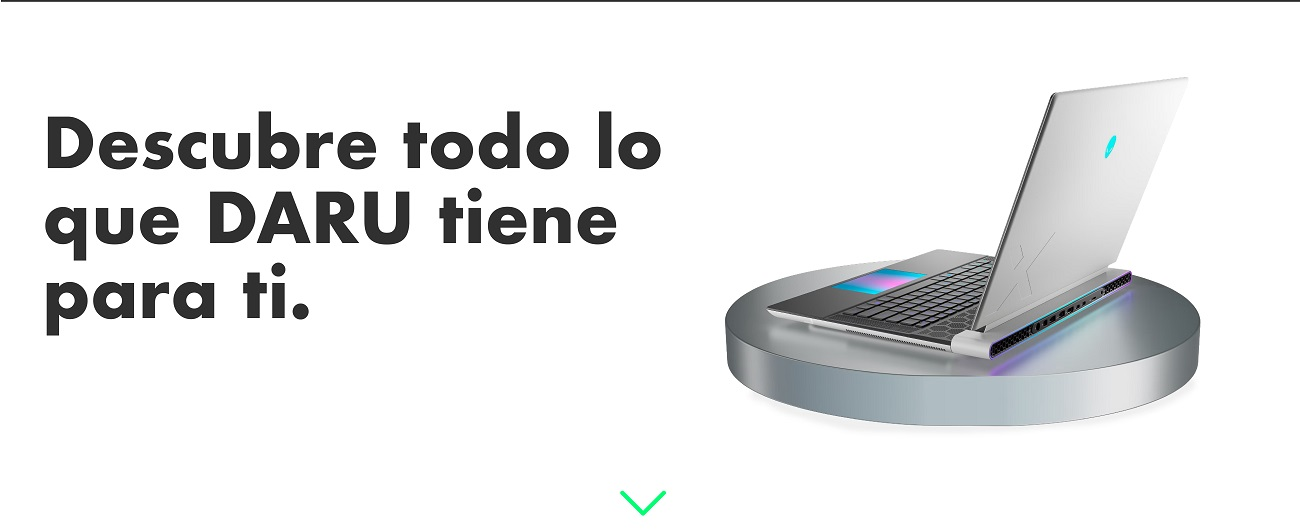
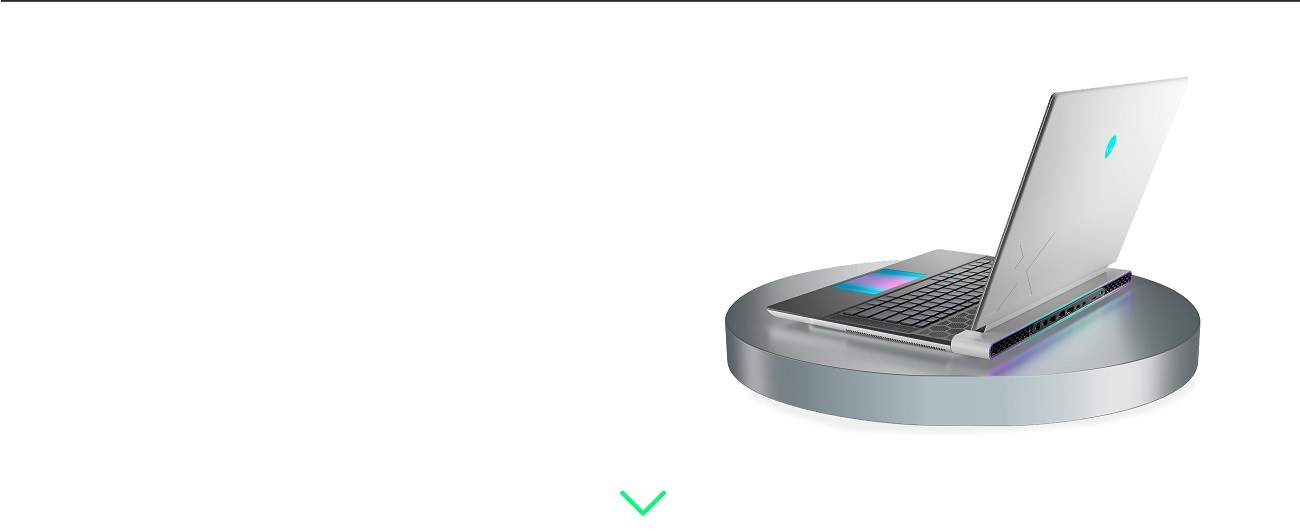
Shop: Home: Ajuste principal.

Changed region(s): [[0.0308, 0.2105, 0.5231, 0.3308], [0.0308, 0.3609, 0.4923, 0.4812], [0.0308, 0.4812, 0.2462, 0.6316]]

diff --git a/src/app/@pages/home/index/index.component.html b/src/app/@pages/home/index/index.component.html
@@ -1,18 +1,14 @@
 <main class="main home-page skeleton-body">
   <!-- Seccion 1 Banner Principal -->
-  <section class="intro-section mt-20">
+  <section class="intro-section">
     <div class="banner">
       <figure>
         <img src="assets/images/home/banners/01.jpg" width="1903" height="780" alt="Image Desc" />
       </figure>
       <div class="banner-content">
-        <!-- <h3 class="banner-subtitle text-white" contentAnim aniName="fadeInUpShorter">Producto...</h3>
-        <h2 class="banner-title text-white" contentAnim aniName="fadeInUpShorter">Informacion <br> del Producto</h2>
-        <p class="banner-text text-white" contentAnim aniName="fadeInUpShorter">
-          Info <br>
-          Info <br>
-          Info.            (click)="addCart($event)"
-        </p> -->
+        <h2 class="banner-title text-white" contentAnim aniName="fadeInUpShorter">Descubre todo lo que <br> DARU</h2>
+        <h3 class="banner-subtitle text-white" contentAnim aniName="fadeInUpShorter">tiene para ti.</h3>
+        <p>&nbsp;<br></p>
         <div class="banner-action" contentAnim aniName="fadeInUpShorter">
           <a routerLink="/register" class="btn btn-cart btn-primary btn-round btn-cart-home">Registrate en DARU TEAM</a>
         </div>

diff --git a/src/app/@pages/home/index/index.component.scss b/src/app/@pages/home/index/index.component.scss
@@ -12,3 +12,21 @@
   background-color: #f4f4f4;
   margin: 2rem;
 }
+
+.home-page .banner .banner-title {
+  font-size: 6rem;
+  font-weight: 700;
+  line-height: 1;
+  letter-spacing: -.025em;
+  color: #5bef97 !important;
+  text-align: left;
+}
+
+.home-page .banner .banner-subtitle {
+  font-size: 2.4rem;
+  font-weight: 700;
+  line-height: 1.1;
+  letter-spacing: -.025em;
+  color: #4b02fc !important;
+  margin-bottom: 0.5rem;
+}

diff --git a/src/scss/_custom.scss b/src/scss/_custom.scss
@@ -244,7 +244,7 @@ p {
 
 .home-page .banner .banner-content {
   left: 10%;
-  top: 80%;
+  top: 50%;
 }
 
 .banner-content-right {
